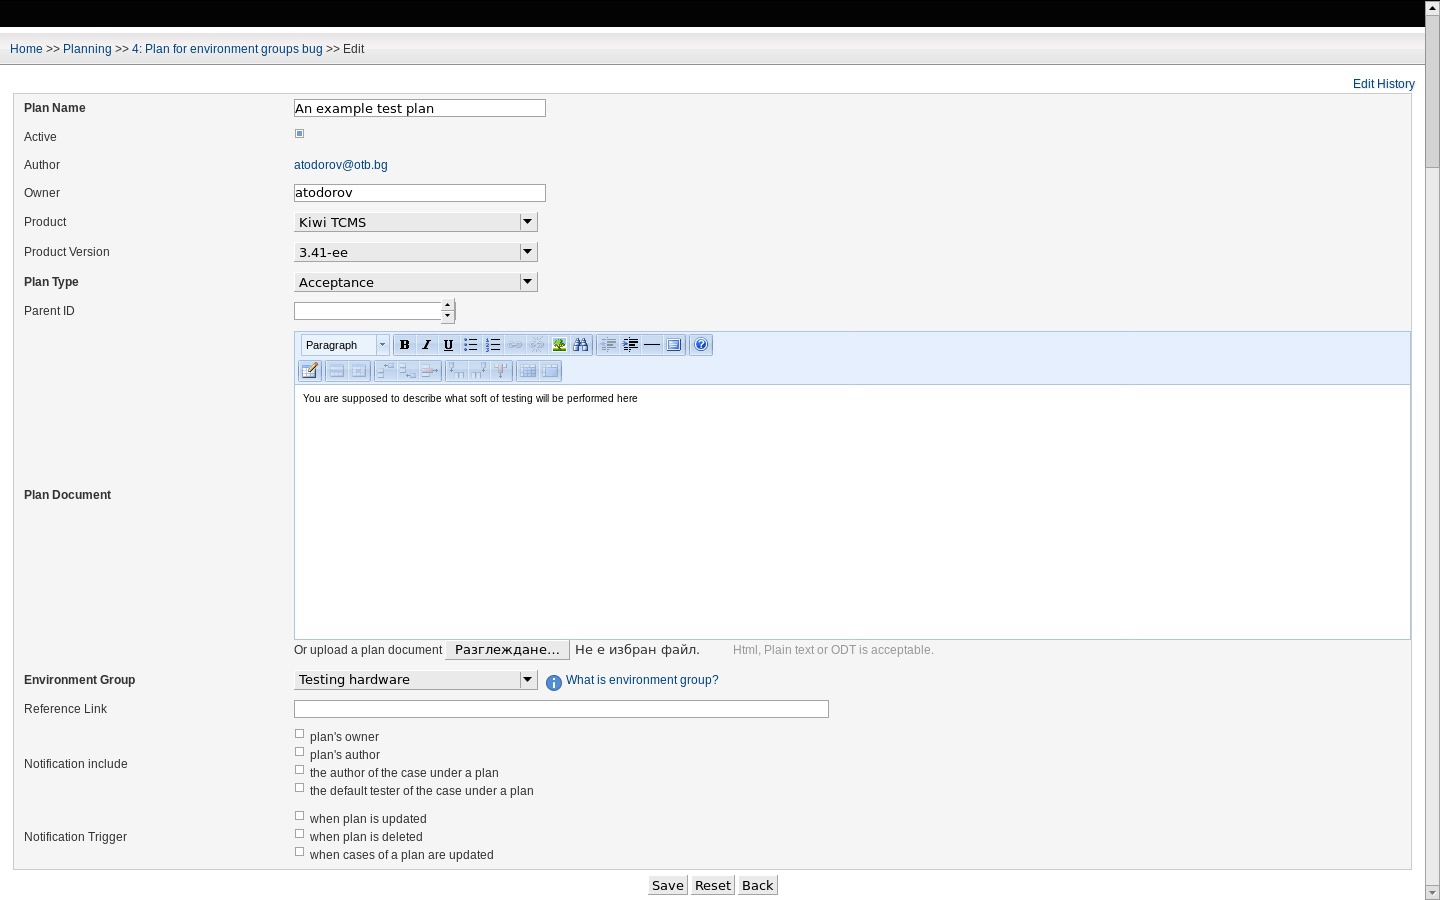
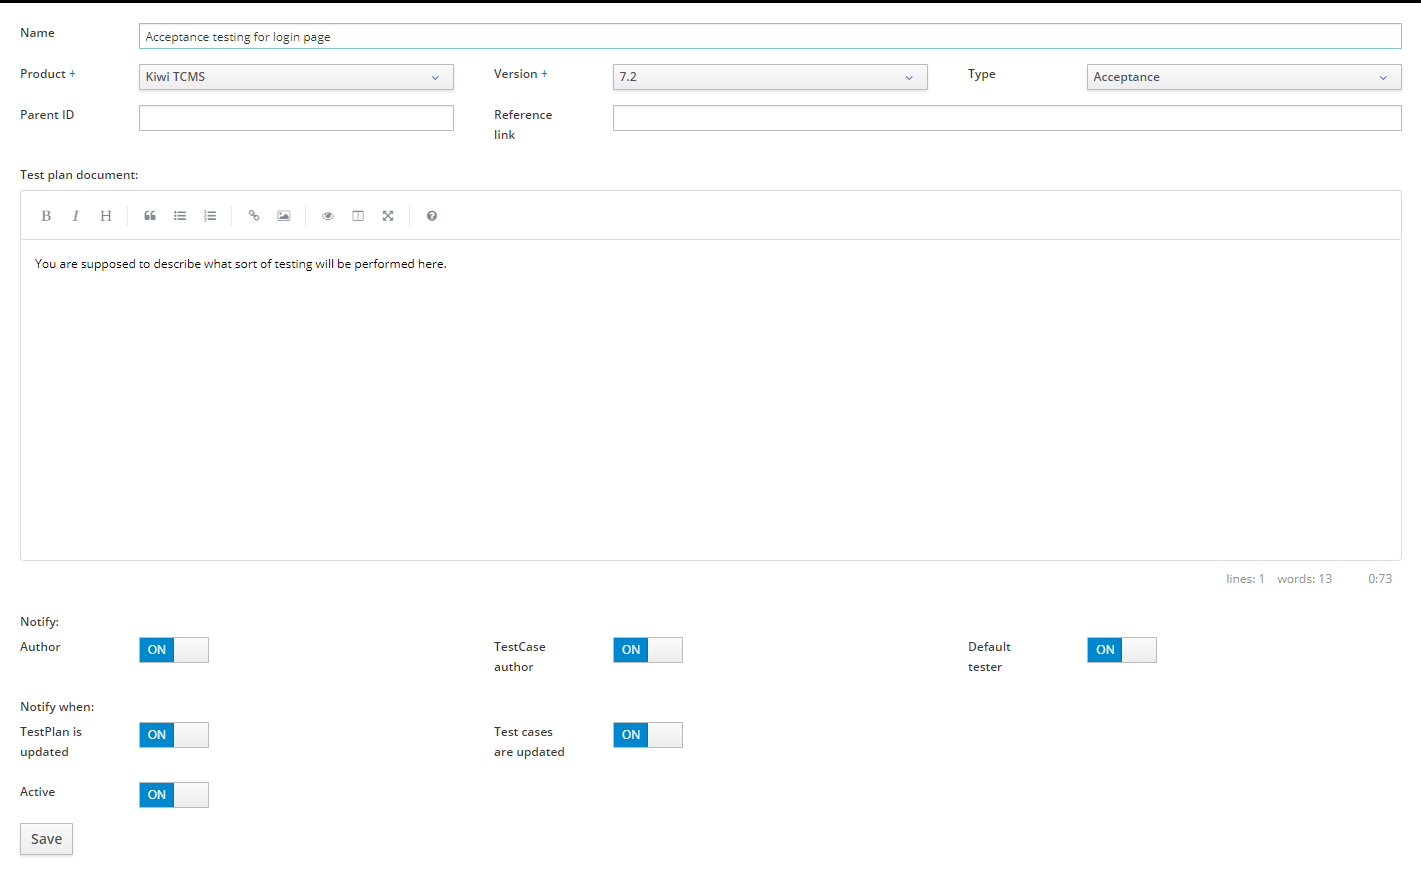
Update to Test Plan documentation - references https://stackoverflow.com/questions/59747294/missing-default-components-tab-in-test-plan
Update testplan.rst

diff --git a/docs/source/guide/testplan.rst b/docs/source/guide/testplan.rst
@@ -57,24 +57,18 @@ format but you are free to enter any kind of text. To create a Test Plan:
 #. In the **Create New Test Plan** screen, perform the following
    actions:
 
-   -  Enter the **Plan Name**
+   -  Enter the **Name**
    -  Select the **Product**
-   -  Select the **Product Version**
+   -  Select the **Version**
    -  Select the **Type** of Test Plan
    -  Enter the **Parent ID**, this is optional
-   -  In the **Plan Document** text box do one of the following:
-
-      -  Enter the details of the Test Plan or
-      -  Click **Browse**, select the file to upload, and then click
-         **Upload**. Supported formats: html, plain text, and ODT.
-
-   -  Select an **Environment Group**, this is optional
+   -  In the **Plan Document** text box enter the details of the Test Plan
    -  Enter a **Reference Link** to any additional information (eg. a wiki
       page), this is optional
 
    |The Create New Test Plans screen|
 
-#. Click the **Create Test Plan** button
+#. Click the **Save** button
 
 .. _cloning-testplan:
 
@@ -87,14 +81,17 @@ product or a new version of the current product. To clone a Test Plan:
 #. Open the Test Plan which will be cloned.
 #. Click the **Clone Plan** button.
 
-   |The Clone plan button|
+   |Test plan action buttons|
 
 #. In the **Clone Test Plan** screen, perform the following actions:
 
-   -  Enter the **New Plan Name**.
-   -  In **Copy to Product**, select the product.
-   -  In **Product Version**, select the version.
-   -  Tick the **Copy Settings** you want
+   -  Enter the **Name**.
+   -  In **Product**, select the product.
+   -  In **Version**, select the version.
+   -  Tick the **Clone TCs** if you want to clone test cases, otherwise
+      they will be only linked into new TP
+   -  Tick the **Parent TP** if you want create parent-child relation
+      to new TP
 
    |The Clone Test Plan screen|
 
@@ -109,7 +106,7 @@ Test Cases or Test Runs associated with the Test Plan. To edit a Test Plan:
 #. Open the Test Plan to be edited.
 #. Click the **Edit plan** button.
 
-   |The Edit plan button|
+   |Test plan action buttons|
 
 #. Edit the fields as required:
 
@@ -120,36 +117,10 @@ Test Cases or Test Runs associated with the Test Plan. To edit a Test Plan:
 Edit History
 ~~~~~~~~~~~~
 
-To view the changelog of a Test Plan document, click the **View Edit History**
-in the **Document** tab of the Test Plan.
+To view the changelog of a Test Plan document,
+click the **View Edit History**.
 
     |View Test Plan Edit History|
-
-Default Components
-~~~~~~~~~~~~~~~~~~
-
-Kiwi TCMS allows adding default components for a Test Plan. The
-default components will be added to each Test Case belonging to the
-plan. To edit default components:
-
-#. Open the Test Plan to be edited.
-#. Click **Default Components** tab
-
-   |The Default Components tab.|
-
-#. To Add a component:
-
-   -  Click **Update components**.
-   -  Select the components.
-   -  Click the **Update** button
-
-   |The update components selection screen.|
-
-#. To Remove a component:
-
-   -  Select the components to remove.
-   -  Click the **Remove** button
-
 
 Test Plan Tags
 ~~~~~~~~~~~~~~
@@ -244,15 +215,18 @@ database. It is best to disable older Test Plans instead of deleting them
 otherwise you will lose your testing history. To disable a Test Plan:
 
 #. Open the Test Plan to be disabled.
-#. Click **Disable Plan** button.
+#. Click **Edit Plan** button.
+#. Toggle **Active** status button to **Off**
+#. Click on **Save** button to confirm changes.
 
-   |The disable plan button.|
+   |Test Plan Disabled|
 
    The plan name changes to a strike through font.
+
+Re-enable a Test Plan
+~~~~~~~~~~~~~~~~~~~~~
+
 #. To enable a disabled plan, click **Edit Plan**.
-
-   |The enable plan button.|
-
 #. Set **Active** status button to **On**
 #. Click on **Save** button to confirm changes.
 
@@ -264,7 +238,7 @@ To print a Test Plan:
 #. Open the Test Plan to be printed.
 #. Click **Print Plan** button.
 
-   |The Print Plan button|
+   |Test plan action buttons|
 
 #. A printer friendly version displays.
 #. From the **File** menu in your Browser, click **Print**.
@@ -282,12 +256,8 @@ Kiwi TCMS offers functionality to export test cases via `TCMS API <https://kiwit
 .. |The Search menu| image:: ../_static/Click_Search.png
 .. |The Search Plan screen| image:: ../_static/Planning_Home.png
 .. |Click column to sort by.| image:: ../_static/Sort_By_Column.png
-.. |The Clone plan button| image:: ../_static/Plan_Actions.png
 .. |The Clone Test Plan screen| image:: ../_static/Clone_Details.png
-.. |The Edit plan button| image:: ../_static/Plan_Actions.png
 .. |Edit a Test Plan| image:: ../_static/Edit_Test_Plan.png
-.. |The Default Components tab.| image:: ../_static/Plan_Default_Components.png
-.. |The update components selection screen.| image:: ../_static/Click_Components_Update.png
 .. |View Test Plan Edit History| image:: ../_static/Test_Plan_View_Edit_History.png
 .. |The Tags tab.| image:: ../_static/Test_Plan_Tags.png
 .. |The default tester screen| image:: ../_static/TP_Update_Default_Tester.png
@@ -295,6 +265,5 @@ Kiwi TCMS offers functionality to export test cases via `TCMS API <https://kiwit
 .. |Change parent.| image:: ../_static/Tree_View_Change_Parent.png
 .. |Add child node.| image:: ../_static/Tree_View_Add_Child.png
 .. |Remove child node.| image:: ../_static/Tree_View_Remove_Child.png
-.. |The Print Plan button| image:: ../_static/Plan_Actions.png
-.. |The disable plan button.| image:: ../_static/Plan_Actions.png
-.. |The enable plan button.| image:: ../_static/Plan_Actions_Enable.png
+.. |Test Plan Disabled| image:: ../_static/Test_Plan_Disabled.png
+.. |Test plan action buttons| image:: ../_static/Test_Plan_Actions.png
